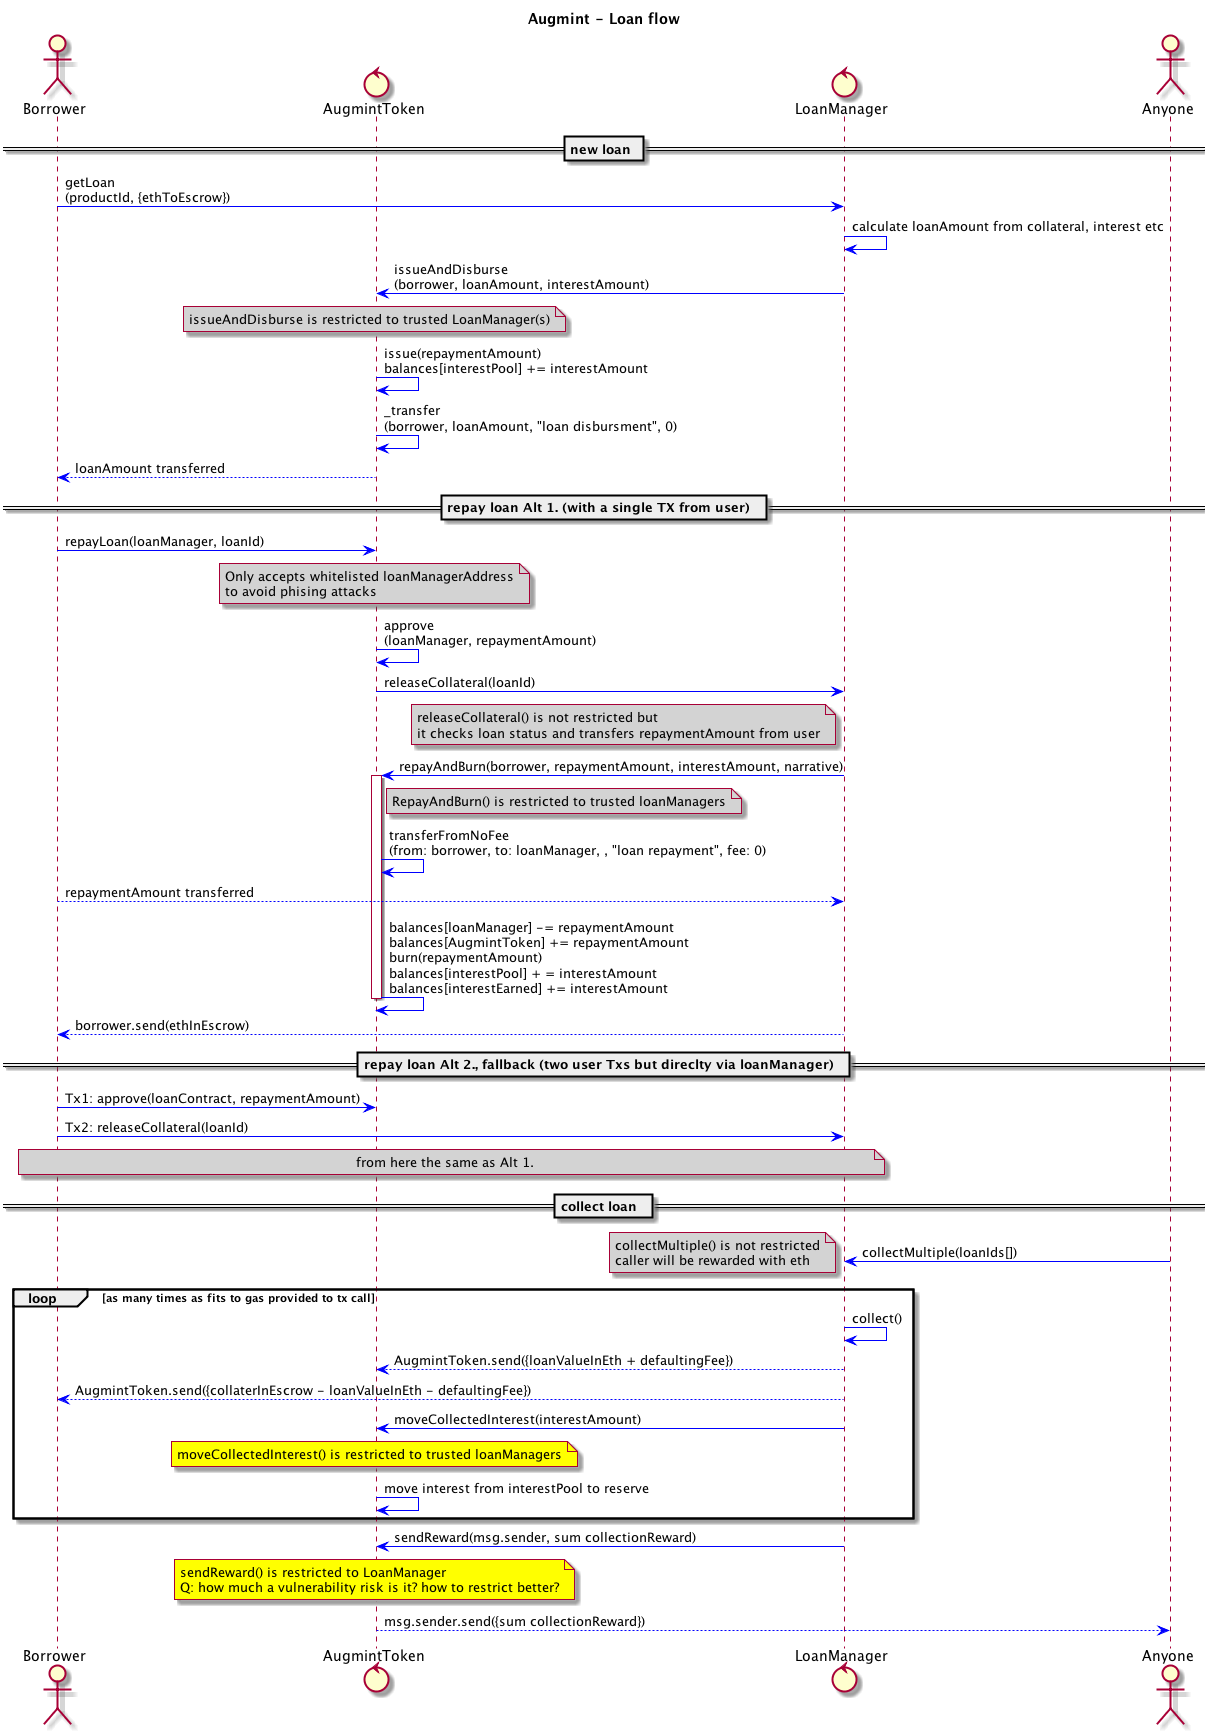
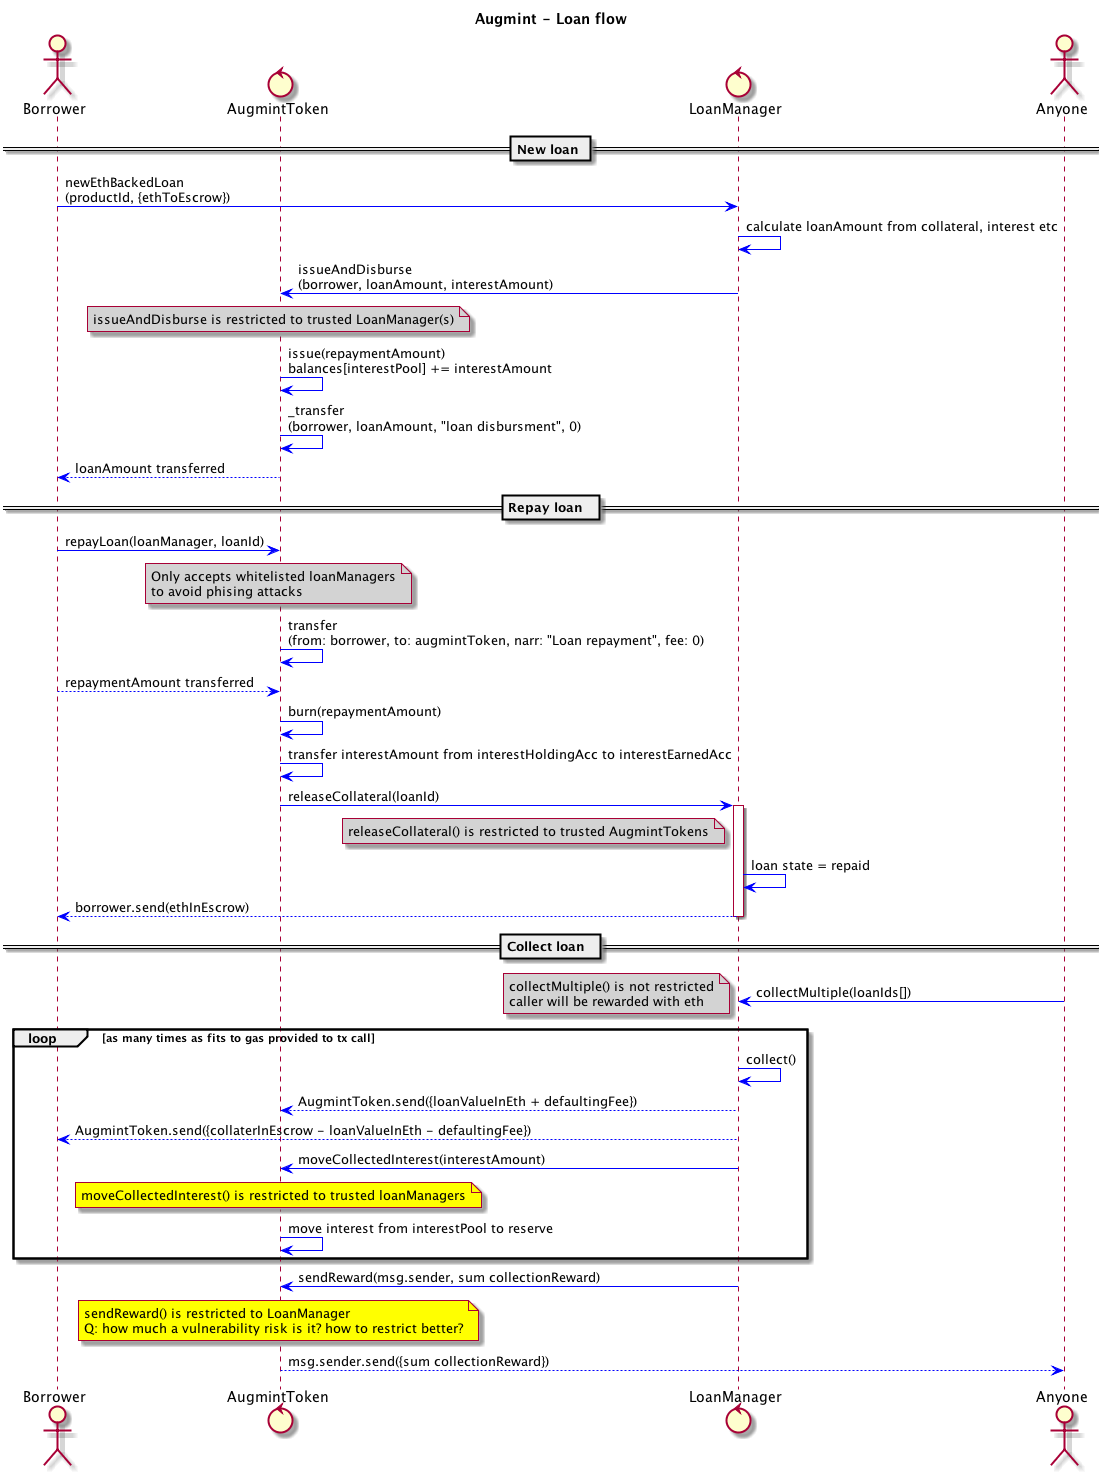
loanManager refactor: reapy only through AugmintToken

diff --git a/test/helpers/loanTestHelper.js b/test/helpers/loanTestHelper.js
@@ -43,7 +43,6 @@ async function newLoanManager(_tokenAce, _rates) {
 
     await tokenAce.grantMultiplePermissions(loanManager.address, [
         "issueAndDisburse",
-        "repayAndBurn",
         "burnCollectedInterest",
         "LoanManager"
     ]);
@@ -116,24 +115,15 @@ async function createLoan(testInstance, product, borrower, collateralWei) {
     return loan;
 }
 
-async function repayLoan(testInstance, loan, viaToken = true) {
+async function repayLoan(testInstance, loan) {
     const testedAccounts = [reserveAcc, loan.borrower, loanManager.address, interestPoolAcc, interestEarnedAcc];
     const totalSupplyBefore = await tokenAce.totalSupply();
     const balBefore = await tokenAceTestHelper.getBalances(testedAccounts);
 
     loan.state = 1; // repaid
-    let tx;
-    if (viaToken) {
-        tx = await tokenAce.repayLoan(loanManager.address, loan.id, { from: loan.borrower });
-        testHelper.logGasUse(testInstance, tx, "AugmintToken.repayLoan");
-        // TODO: assert events (truffle is missing LoanRepayed event)
-    } else {
-        const appTx = await tokenAce.approve(loanManager.address, loan.repaymentAmount, { from: loan.borrower });
-        testHelper.logGasUse(testInstance, appTx, "AugmintToken.approve");
-        tx = await loanManager.releaseCollateral(loan.id, { from: loan.borrower });
-        testHelper.logGasUse(testInstance, tx, "LoanManager.releaseCollateral");
-        // TODO: assert all events, ie. Transfer etc. (truffle is missing all events but LoanRepayed )
-    }
+    const tx = await tokenAce.repayLoan(loanManager.address, loan.id, { from: loan.borrower });
+    testHelper.logGasUse(testInstance, tx, "AugmintToken.repayLoan");
+    // TODO: assert events (truffle is missing LoanRepayed event)
 
     await loanAsserts(loan);
 

diff --git a/test/loans.test.js b/test/loans.test.js
@@ -1,4 +1,3 @@
-const Rates = artifacts.require("./Rates.sol");
 const loanTestHelper = require("./helpers/loanTestHelper.js");
 const tokenAceTestHelper = require("./helpers/tokenAceTestHelper.js");
 const ratesTestHelper = require("./helpers/ratesTestHelper.js");
@@ -53,7 +52,7 @@ contract("ACE Loans tests", accounts => {
         await loanTestHelper.repayLoan(this, loan, true); // repaymant via AugmintToken.repayLoan convenience func
     });
 
-    it("Should repay a loan directly via loanManager", async function() {
+    it("Shouldn't releaseCollateral directly on loanManager", async function() {
         const loan = await loanTestHelper.createLoan(this, products.notDue, accounts[1], web3.toWei(0.5));
 
         // send interest to borrower to have enough ACE to repay in test
@@ -61,7 +60,7 @@ contract("ACE Loans tests", accounts => {
             from: accounts[0]
         });
 
-        await loanTestHelper.repayLoan(this, loan, false); // repayment via AugmintToken.approve + LoanManager.releaseCollateral
+        await testHelper.expectThrow(loanManager.releaseCollateral(loan.id, { from: loan.borrower }));
     });
 
     it("Should collect a defaulted ACE loan and send back leftover collateral", async function() {

diff --git a/migrations/6_deploy_LoanManager.js b/migrations/6_deploy_LoanManager.js
@@ -11,7 +11,6 @@ module.exports = function(deployer, network, accounts) {
         let tokenAce = TokenAce.at(TokenAce.address);
         await tokenAce.grantMultiplePermissions(LoanManager.address, [
             "issueAndDisburse",
-            "repayAndBurn",
             "burnCollectedInterest",
             "LoanManager"
         ]);
